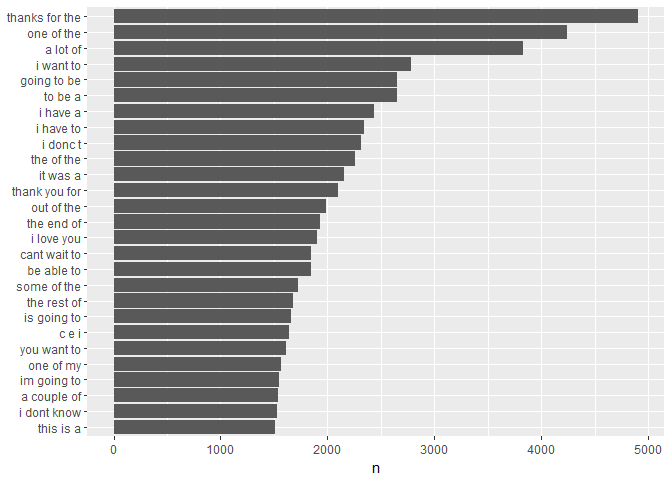
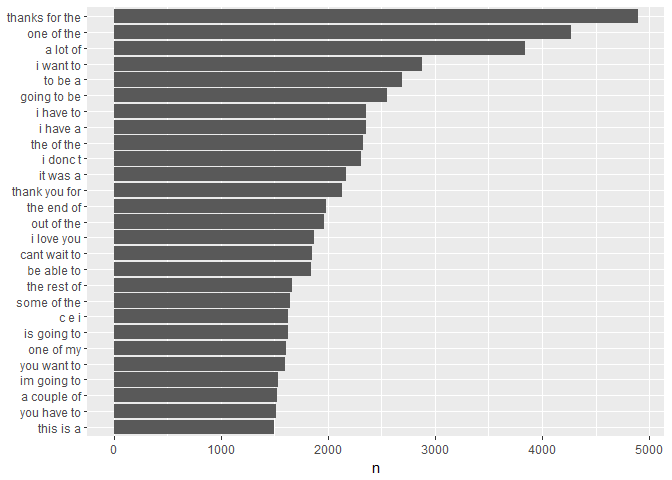
Fourgrams final before separation.

diff --git a/02_Task_Script.md b/02_Task_Script.md
@@ -1,7 +1,7 @@
 Task 2: Exploratory Data Analysis
 ================
 Mark Blackmore
-2017-10-21
+2017-10-22
 
 1. Introduction
 ---------------
@@ -354,7 +354,7 @@ trigram_cover_90 <- trigram_repo %>%
 nrow(trigram_cover_90)
 ```
 
-    ## [1] 6589699
+    ## [1] 6616208
 
 trigram distribution
 
@@ -374,19 +374,19 @@ trigram_cover_90 %>%
 7. Fourgrams
 ------------
 
-Create Trigrams by source using `unnest_tokens`
+Create Fourgrams by source using `unnest_tokens`
 
 ``` r
 blogs_fourgrams <- clean_blogs  %>%
-  sample_n(., nrow(clean_blogs)*0.20) %>%
+  sample_n(., nrow(clean_blogs)*0.10) %>%
   unnest_tokens(fourgram, text, token = "ngrams", n = 4)
 
 news_fourgrams <- clean_news  %>%
-  sample_n(., nrow(clean_news)*0.20) %>%
+  sample_n(., nrow(clean_news)*0.10) %>%
   unnest_tokens(fourgram, text, token = "ngrams", n = 4)
 
 twitter_fourgrams <- clean_twitter  %>%
-  sample_n(., nrow(clean_twitter)*0.20) %>%
+  sample_n(., nrow(clean_twitter)*0.10) %>%
   unnest_tokens(fourgram, text, token = "ngrams", n = 4)
 ```
 
@@ -411,14 +411,14 @@ fourgram_cover_90 <- fourgram_repo %>%
 nrow(fourgram_cover_90)
 ```
 
-    ## [1] 9835480
+    ## [1] 5084613
 
 Fourgram distribution
 
 ``` r
 fourgram_cover_90 %>%
   #count(trigram, sort = TRUE) %>%
-  filter(n > 100) %>%
+  filter(n > 200) %>%
   mutate(fourgram = reorder(fourgram, n)) %>%
   ggplot(aes(fourgram, n)) +
   geom_col() +
@@ -434,7 +434,7 @@ end <- Sys.time()
 (run_time <- end - start)
 ```
 
-    ## Time difference of 55.47961 mins
+    ## Time difference of 21.84332 mins
 
 ``` r
 ###############
